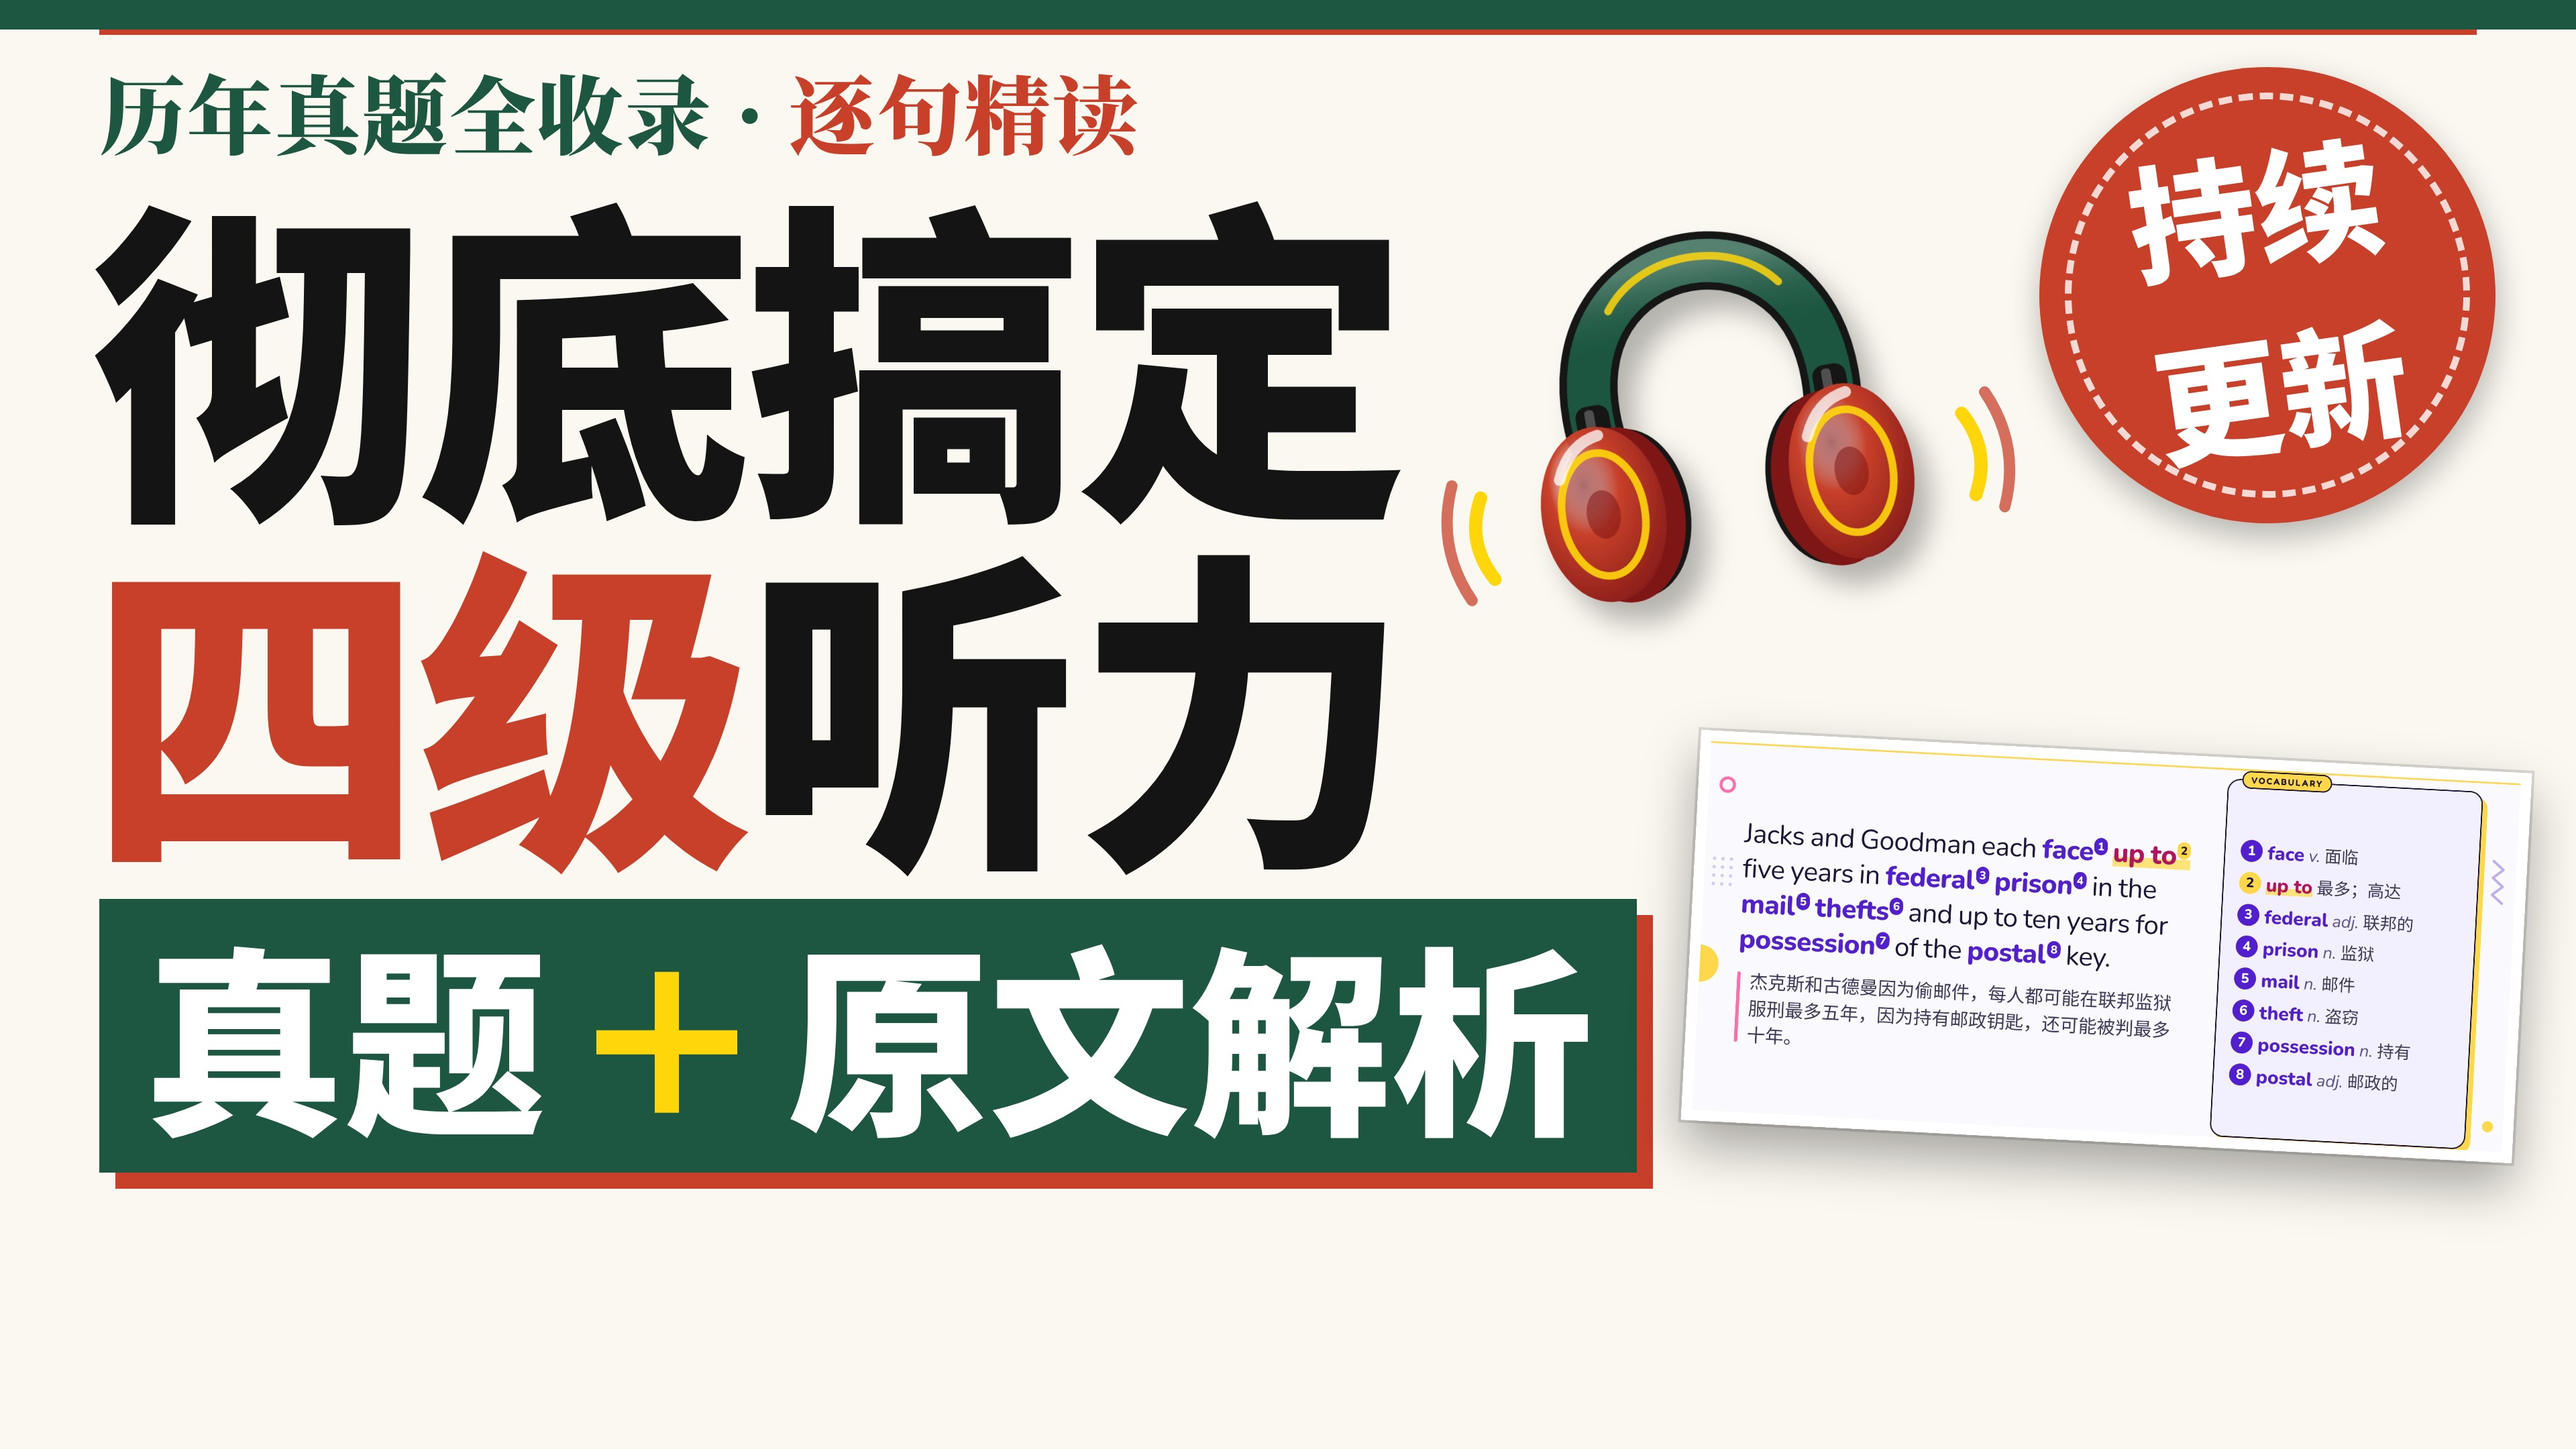
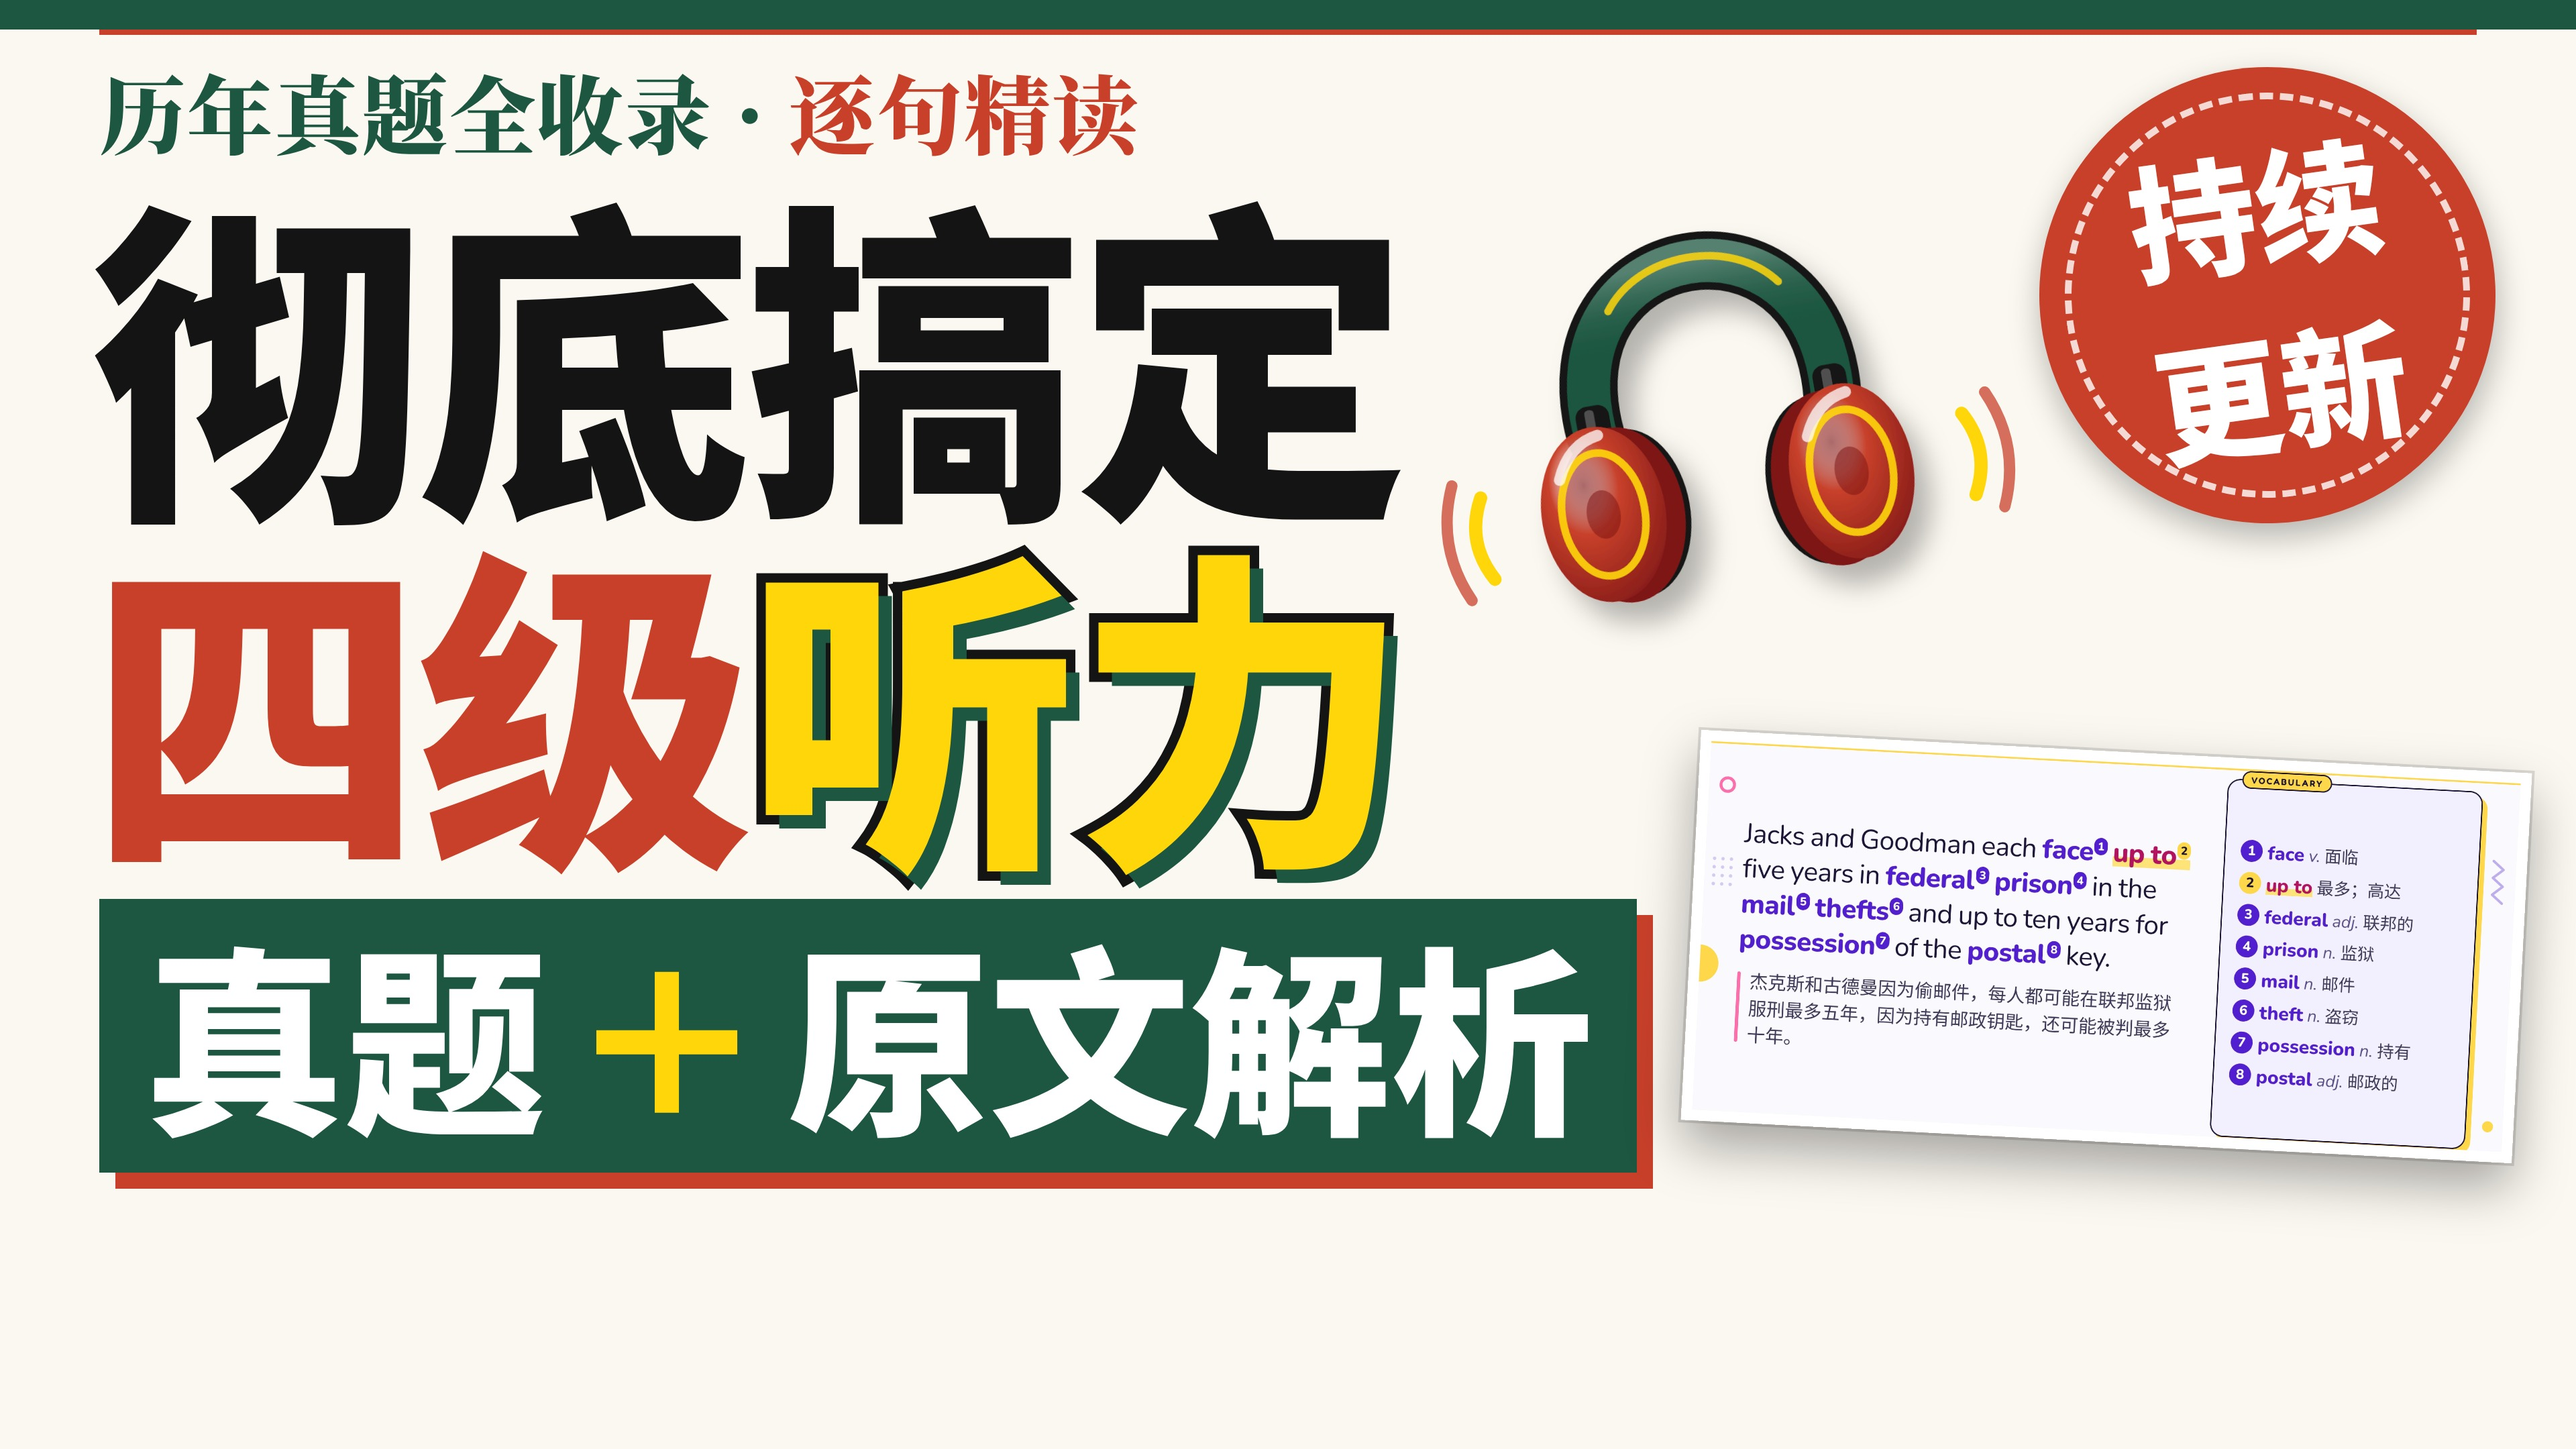
四级听力封面：“听力”两字改亮黄字＋黑描边＋墨绿错位投影，更引人注目
比过墨绿、亮黄黑描边、白字绿描边三种，亮黄在 320×180 里最醒目。定稿 A 自查 0 处，--自检 通过。

Claude-Session: https://claude.ai/code/session_01BA1TPDsEGngBc33Nxnyes7

Changed region(s): [[0.2812, 0.3722, 0.5625, 0.6204]]

diff --git a/四级/听力/封面/系列封面.py b/四级/听力/封面/系列封面.py
@@ -101,6 +101,18 @@ def headphones(x, y, s, rot=-10, v=None):
 </svg>'''
 
 
+TING_V = 2       # “听力”两个字的配色（老师 2026-11-06：要另一个颜色、非常引人注目；比过 1 墨绿 / 2 亮黄黑描边 / 3 白字绿描边，定稿 2）
+
+
+def ting(v=None):
+    v = v or TING_V
+    if v == 1:     # 墨绿
+        return f'color:{GREEN}'
+    if v == 2:     # 亮黄字 ＋ 黑描边 ＋ 墨绿错位投影
+        return f'color:{YEL};-webkit-text-stroke:14px {INK};paint-order:stroke fill;text-shadow:10px 10px 0 {GREEN}'
+    return f'color:#fff;-webkit-text-stroke:14px {GREEN};paint-order:stroke fill;text-shadow:10px 10px 0 {YEL}'   # 3：白字 ＋ 墨绿描边 ＋ 黄投影（缩略图里看不清，不用）
+
+
 def card(x, y, w, rot=3):
     return f'<img class="card" data-k="card" src="{SHOT.as_uri()}" style="left:{x}px;top:{y}px;width:{w}px;transform:rotate({rot}deg)">'
 
@@ -124,7 +136,7 @@ def A(w=1920, h=1080):
 <div class="ab" data-k="sell" data-min="{MIN_SELL}" style="left:{left}px;top:44px;font:900 {fs(64)}/1.2 SerifSC;color:{GREEN};letter-spacing:.02em">
  历年真题全收录 · <span style="color:{RED}">逐句精读</span></div>
 <div class="ab" data-k="title" data-min="{MIN_TITLE}" style="left:{left - 8}px;top:{128 if wide else 140}px;font:900 {fs(t)}/1.04 Black;color:{INK};letter-spacing:-.02em">
- <div>彻底搞定</div><div><span style="color:{RED}">四级</span>听力</div></div>
+ <div>彻底搞定</div><div><span style="color:{RED}">四级</span><span data-ting="1" style="{ting()}">听力</span></div></div>
 <div class="ab" data-k="sub" data-min="{MIN_TITLE}" style="left:{left}px;top:{t * 2.08 + (150 if wide else 168):.0f}px;{two(sub, 0)}</div>
 {card(1260, 560, 620, rot=3) if wide else card(1020, 850, 380, rot=4)}
 {seal(1520, 50, 340) if wide else seal(1080, 44, 300)}

diff --git a/四级/听力/封面/交接_耳机图标.md b/四级/听力/封面/交接_耳机图标.md
@@ -25,3 +25,4 @@
 - 比了 2 个配色（1 墨绿头梁＋红耳罩；2 红头梁＋绿耳罩），选 1：在 320×180 里最醒目，和红章、大字配色呼应。
 - 位置：16:9 耳机 (1068,130) 宽 420；4:3 红章改 seal(1080,44,300)、耳机 (1112,375) 宽 300。
 - `定稿 A` 0 处，`--自检` 通过；与六级听力、四级写作 320×180 并排看过：耳机认得出，和六级黑板一眼分得开。
+- 老师 2026-11-06 追加：“听力”两个字换成另一个非常引人注目的颜色。比了 3 种（墨绿 / 亮黄字＋黑描边＋墨绿错位投影 / 白字＋绿描边），定稿亮黄黑描边（ting()，TING_V=2）。
